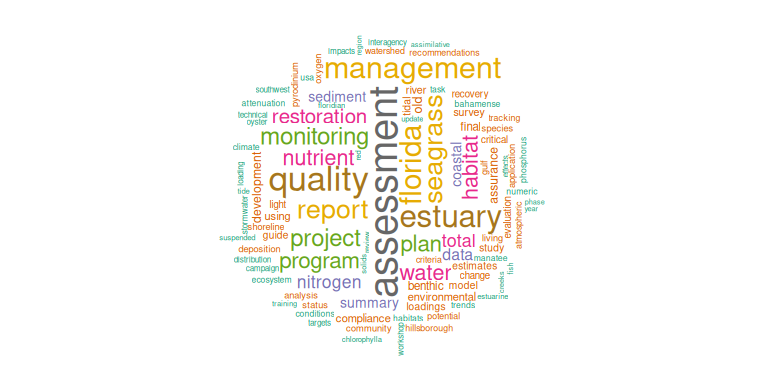
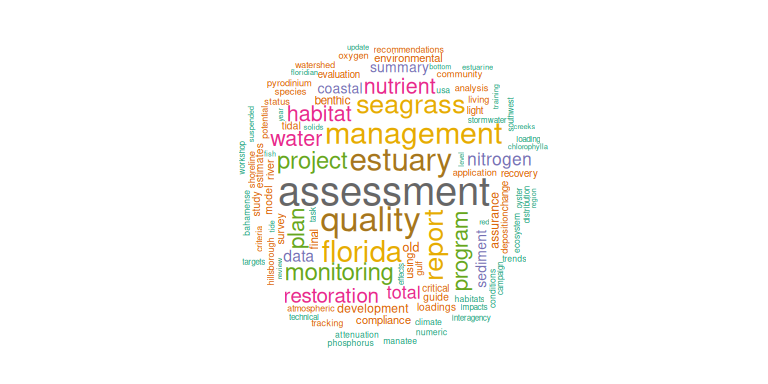
Re-build README and index

Changed region(s): [[0.2812, 0.0938, 0.7188, 0.9375]]

diff --git a/allindex.html b/allindex.html
@@ -376,7 +376,7 @@ educational</h1>
 </div>
 
 
-<p>Created 2026-07-08, .bib file <a href="https://github.com/tbep-tech/tbep-refs/blob/master/allbibs.bib">here</a></p>
+<p>Created 2026-07-09, .bib file <a href="https://github.com/tbep-tech/tbep-refs/blob/master/allbibs.bib">here</a></p>
 <div id="refs" class="references csl-bib-body">
 <div id="ref-edu1726" class="csl-entry">
 <div class="csl-left-margin">1. </div><div class="csl-right-inline">E.

diff --git a/eduindex.html b/eduindex.html
@@ -375,7 +375,7 @@ display: none;
 </div>
 
 
-<p>Created 2026-07-08, .bib file <a href="https://github.com/tbep-tech/tbep-refs/blob/master/edubibs.bib">here</a></p>
+<p>Created 2026-07-09, .bib file <a href="https://github.com/tbep-tech/tbep-refs/blob/master/edubibs.bib">here</a></p>
 <div id="refs" class="references csl-bib-body">
 <div id="ref-edu1726" class="csl-entry">
 <div class="csl-left-margin">1. </div><div class="csl-right-inline">E.

diff --git a/techindex.html b/techindex.html
@@ -375,7 +375,7 @@ display: none;
 </div>
 
 
-<p>Created 2026-07-08, .bib file <a href="https://github.com/tbep-tech/tbep-refs/blob/master/techbibs.bib">here</a></p>
+<p>Created 2026-07-09, .bib file <a href="https://github.com/tbep-tech/tbep-refs/blob/master/techbibs.bib">here</a></p>
 <div id="refs" class="references csl-bib-body">
 <div id="ref-tbep1626" class="csl-entry">
 <div class="csl-left-margin">1. </div><div class="csl-right-inline">K.